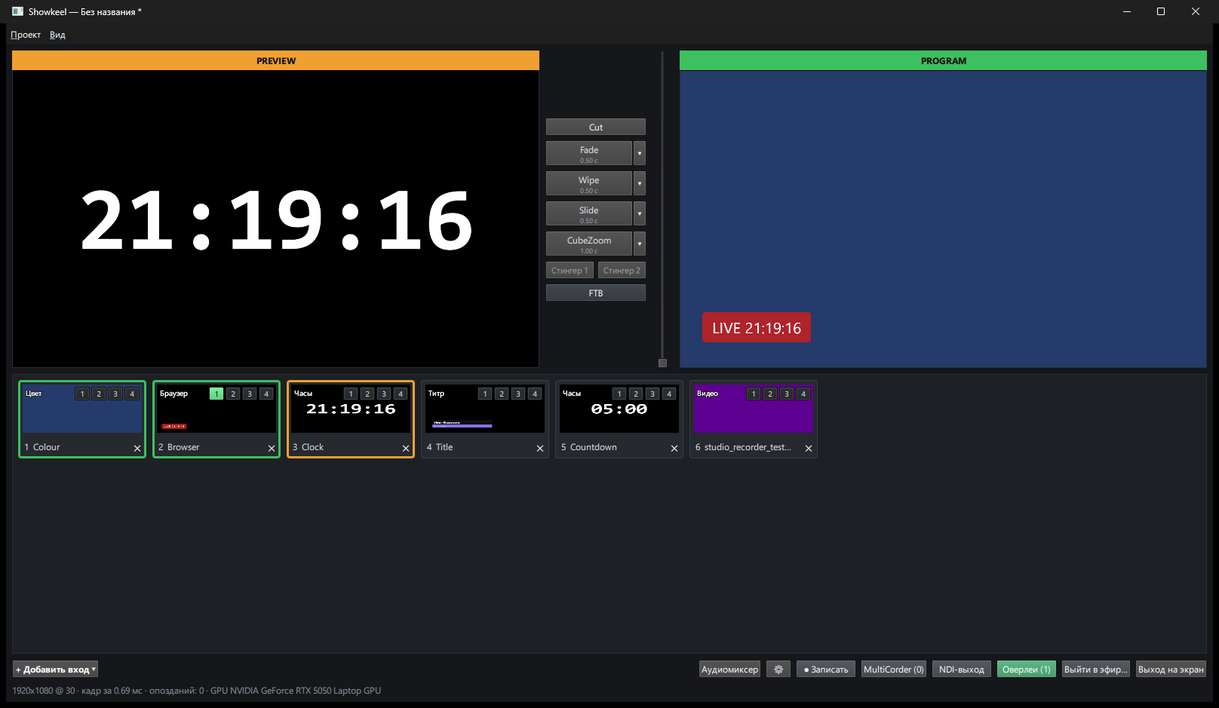
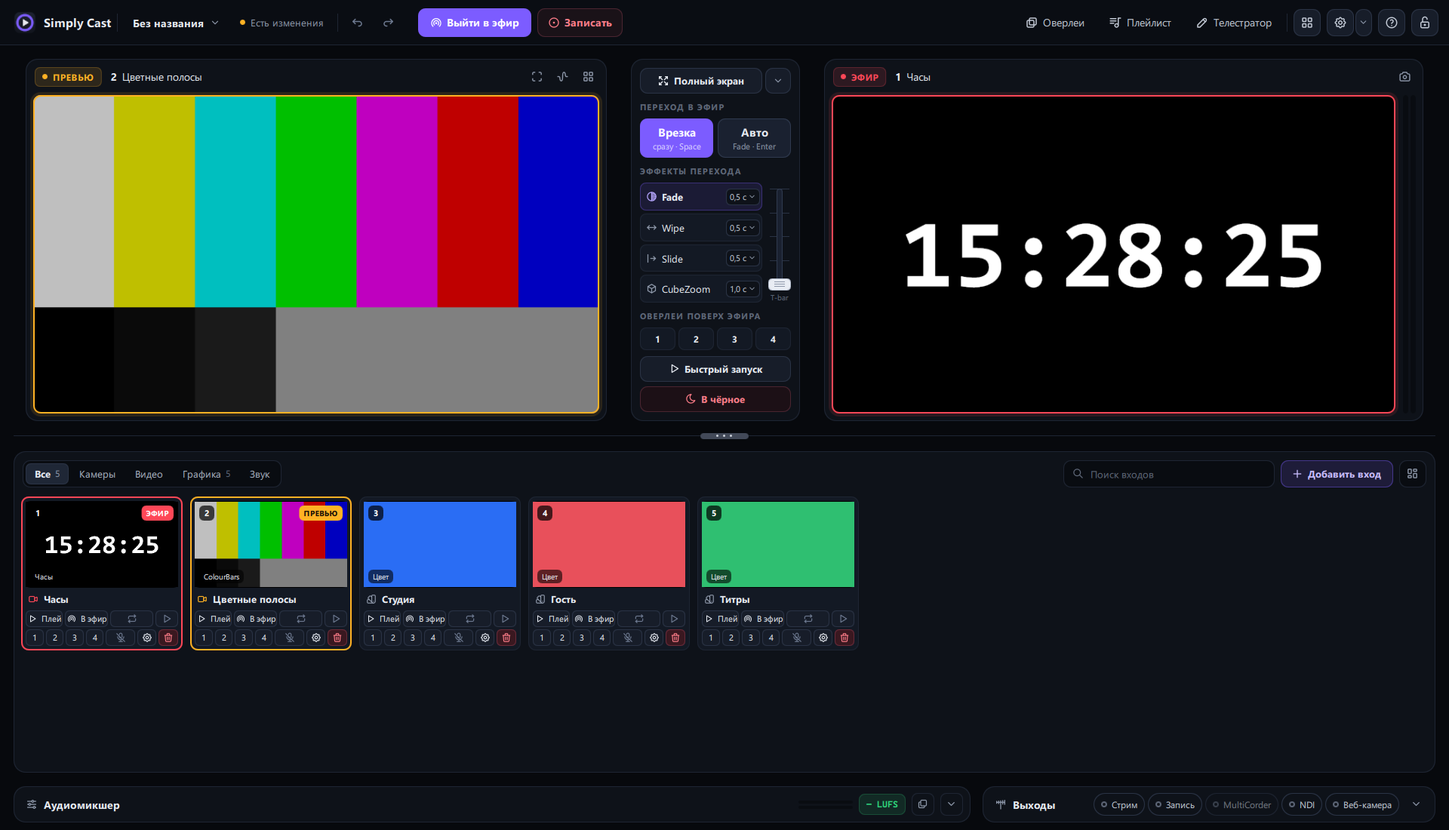
Новый дизайн сайта и свежий скриншот

diff --git a/site/index.html b/site/index.html
@@ -3,121 +3,184 @@
 <head>
 <meta charset="utf-8">
 <meta name="viewport" content="width=device-width, initial-scale=1">
-<title>Simply Cast — живой эфир с одного компьютера</title>
-<meta name="description" content="Бесплатный видеомикшер для Windows: камеры, экраны, NDI и веб-графика в Program, в запись и в стрим одновременно. Без ключей и активации.">
+<title>Simply Cast — видеомикшер для Windows</title>
+<meta name="description" content="Бесплатный видеомикшер для Windows: камеры, экраны, NDI и веб-графика в эфир, запись и стрим одновременно. Без ключей и активации. Пульт для Android в комплекте.">
 <style>
-  /* colours: replica/design/tokens.json (checked with contrast.py, 0 AA failures) */
-  :root { --bg:#15171a; --surface:#23262b; --border:#3a3e45; --text:#e4e6ea; --muted:#a3a9b2;
-          --accent:#a493ff; --accent-strong:#6c4fe0; --on-accent:#ffffff; }
-  * { box-sizing: border-box; }
-  body { margin:0; background:var(--bg); color:var(--text); font:16px/1.55 "Segoe UI", system-ui, sans-serif; }
-  .wrap { max-width:1080px; margin:0 auto; padding:0 16px; }
-  header.top { display:flex; align-items:center; justify-content:space-between; padding:20px 0; }
-  .logo { font-weight:700; font-size:20px; letter-spacing:.2px; }
-  .logo span { display:inline-block; width:10px; height:22px; margin-right:8px; vertical-align:-4px;
-               background:var(--accent-strong); clip-path:polygon(0 0,100% 0,50% 100%); }
-  h1 { font-size:clamp(30px,5vw,48px); line-height:1.12; margin:48px 0 16px; }
-  .lead { font-size:clamp(17px,2.2vw,20px); color:var(--muted); max-width:720px; margin:0 0 28px; }
-  .btn { display:inline-block; background:var(--accent-strong); color:var(--on-accent); text-decoration:none;
-         font-weight:600; padding:14px 22px; border-radius:10px; }
+  :root {
+    --bg:#0a0d16; --panel:#121726; --panel2:#171d30; --line:#262e47;
+    --text:#eef1f8; --muted:#9aa4bf; --accent:#8b7bff; --accent2:#6c4fe0;
+    --live:#ff4d5e; --prev:#ffb020; --ok:#34d399;
+  }
+  * { box-sizing:border-box; }
+  html { scroll-behavior:smooth; }
+  body { margin:0; background:var(--bg); color:var(--text); font:16px/1.6 "Segoe UI",system-ui,sans-serif;
+         background-image:radial-gradient(900px 420px at 50% -120px, rgba(108,79,224,.28), transparent 70%); }
+  a { color:inherit; }
+  .wrap { max-width:1160px; margin:0 auto; padding:0 20px; }
+
+  nav { display:flex; align-items:center; justify-content:space-between; padding:18px 0; }
+  .logo { display:flex; align-items:center; gap:10px; font-weight:700; font-size:19px; text-decoration:none; }
+  .logo i { width:30px; height:30px; border-radius:50%; background:linear-gradient(135deg,var(--accent),var(--accent2));
+            display:grid; place-items:center; }
+  .logo i::after { content:""; border-left:9px solid #fff; border-top:6px solid transparent; border-bottom:6px solid transparent; margin-left:3px; }
+  nav .links { display:flex; gap:22px; align-items:center; font-size:15px; color:var(--muted); }
+  nav .links a { text-decoration:none; }
+  nav .links a:hover { color:var(--text); }
+
+  .btn { display:inline-flex; align-items:center; gap:10px; padding:14px 24px; border-radius:12px; font-weight:600;
+         text-decoration:none; border:1px solid var(--line); background:var(--panel2); transition:.15s; }
+  .btn:hover { border-color:var(--accent); }
+  .btn.primary { background:linear-gradient(135deg,var(--accent),var(--accent2)); border-color:transparent; color:#fff;
+                 box-shadow:0 8px 30px rgba(108,79,224,.4); }
+  .btn.primary:hover { filter:brightness(1.1); }
   .btn:focus-visible { outline:3px solid var(--accent); outline-offset:3px; }
-  .note { color:var(--muted); font-size:14px; margin-top:10px; }
-  .shot { margin:36px 0 8px; border:1px solid var(--border); border-radius:12px; overflow:hidden; }
-  .shot img { display:block; width:100%; height:auto; }
-  section { padding:44px 0; border-top:1px solid var(--border); }
-  h2 { font-size:clamp(24px,3vw,30px); margin:0 0 20px; }
-  .grid { display:grid; grid-template-columns:repeat(auto-fit,minmax(250px,1fr)); gap:16px; }
-  .card { background:var(--surface); border:1px solid var(--border); border-radius:12px; padding:18px; }
-  .card h3 { margin:0 0 6px; font-size:17px; }
-  .card p, li { color:var(--muted); margin:0; }
-  ol, ul { padding-left:20px; margin:0; } li { margin:6px 0; }
-  .num { color:var(--accent); font-weight:700; }
-  table { border-collapse:collapse; width:100%; max-width:560px; }
-  td, th { text-align:left; padding:10px 12px; border-bottom:1px solid var(--border); }
-  th { color:var(--muted); font-weight:600; }
-  dt { font-weight:600; margin-top:16px; } dd { margin:4px 0 0; color:var(--muted); }
-  a { color:var(--accent); }
-  footer { padding:32px 0 48px; color:var(--muted); font-size:14px; border-top:1px solid var(--border); }
+
+  .hero { text-align:center; padding:56px 0 32px; }
+  .badges { display:flex; gap:8px; justify-content:center; margin-bottom:20px; }
+  .pill { font-size:12px; font-weight:700; letter-spacing:.8px; padding:5px 11px; border-radius:99px; border:1px solid; }
+  .pill.live { color:var(--live); border-color:rgba(255,77,94,.5); background:rgba(255,77,94,.1); }
+  .pill.prev { color:var(--prev); border-color:rgba(255,176,32,.5); background:rgba(255,176,32,.1); }
+  h1 { font-size:clamp(34px,6vw,64px); line-height:1.07; margin:0 0 18px; letter-spacing:-.02em; }
+  h1 em { font-style:normal; background:linear-gradient(90deg,var(--accent),#c9c0ff); -webkit-background-clip:text; background-clip:text; color:transparent; }
+  .lead { color:var(--muted); font-size:clamp(17px,2.2vw,21px); max-width:700px; margin:0 auto 30px; }
+  .cta { display:flex; flex-wrap:wrap; gap:12px; justify-content:center; }
+  .meta { color:var(--muted); font-size:14px; margin-top:14px; }
+
+  .shot { margin:44px auto 0; border-radius:16px; padding:8px; background:var(--panel); border:1px solid var(--line);
+          box-shadow:0 40px 90px rgba(0,0,0,.6), 0 0 120px rgba(108,79,224,.18); }
+  .shot img { display:block; width:100%; height:auto; border-radius:10px; }
+
+  section { padding:84px 0 0; }
+  h2 { font-size:clamp(26px,4vw,38px); letter-spacing:-.01em; margin:0 0 10px; }
+  .sub { color:var(--muted); max-width:620px; margin:0 0 34px; }
+
+  .grid { display:grid; grid-template-columns:repeat(auto-fit,minmax(260px,1fr)); gap:14px; }
+  .f { background:var(--panel); border:1px solid var(--line); border-radius:14px; padding:22px; }
+  .f b { display:block; font-size:17px; margin-bottom:6px; }
+  .f p { margin:0; color:var(--muted); font-size:15px; }
+  .f .ic { width:38px; height:38px; border-radius:10px; background:rgba(139,123,255,.14); color:var(--accent);
+           display:grid; place-items:center; font-size:19px; margin-bottom:14px; }
+
+  .steps { display:grid; grid-template-columns:repeat(auto-fit,minmax(260px,1fr)); gap:14px; counter-reset:s; }
+  .step { position:relative; background:var(--panel); border:1px solid var(--line); border-radius:14px; padding:22px 22px 22px 70px; }
+  .step::before { counter-increment:s; content:counter(s); position:absolute; left:20px; top:20px; width:34px; height:34px; border-radius:50%;
+                  background:var(--accent2); display:grid; place-items:center; font-weight:700; }
+  .step b { display:block; margin-bottom:4px; }
+  .step p { margin:0; color:var(--muted); font-size:15px; }
+
+  .dl { display:grid; grid-template-columns:repeat(auto-fit,minmax(300px,1fr)); gap:14px; }
+  .card { background:var(--panel); border:1px solid var(--line); border-radius:16px; padding:26px; display:flex; flex-direction:column; gap:14px; }
+  .card.main { border-color:rgba(139,123,255,.55); background:linear-gradient(180deg,rgba(108,79,224,.16),var(--panel)); }
+  .card h3 { margin:0; font-size:20px; }
+  .card p { margin:0; color:var(--muted); font-size:15px; flex:1; }
+  .card .btn { justify-content:center; }
+  .tag { font-size:13px; color:var(--muted); }
+
+  details { background:var(--panel); border:1px solid var(--line); border-radius:12px; padding:16px 20px; margin-bottom:10px; }
+  summary { cursor:pointer; font-weight:600; }
+  details p { color:var(--muted); margin:10px 0 0; }
+
+  footer { margin-top:90px; padding:28px 0 44px; border-top:1px solid var(--line); color:var(--muted); font-size:14px; }
+  footer .wrap { display:flex; flex-wrap:wrap; gap:8px 24px; justify-content:space-between; }
+  @media (max-width:640px){ nav .links a:not(.btn){ display:none; } .hero{padding-top:36px;} }
 </style>
 </head>
 <body>
 <div class="wrap">
-  <header class="top"><div class="logo"><span aria-hidden="true"></span>Simply Cast</div>
-    <a href="#download">Скачать</a></header>
+  <nav>
+    <a class="logo" href="#"><i aria-hidden="true"></i>Simply Cast</a>
+    <div class="links"><a href="#features">Возможности</a><a href="#remote">Пульт</a><a href="#faq">Вопросы</a>
+      <a class="btn primary" style="padding:9px 18px" href="#download">Скачать</a></div>
+  </nav>
 
-  <h1>Живой эфир с одного компьютера. Бесплатно.</h1>
-  <p class="lead">Камеры, экраны, NDI и веб-графика — в Program, в запись и в стрим одновременно. Без ключей и активации.</p>
-  <a class="btn dl-win" href="SimplyCast-Setup-0.1.0.exe">Скачать для Windows</a> <a class="btn dl-apk" href="#download" style="background:var(--surface);border:1px solid var(--border)">Пульт для Android (APK)</a> <a class="dl-all" href="#download">Все релизы</a>
-  <p class="note">Версия 0.1.0 · 24 МБ · Windows 10 (2004) и 11, 64 бит</p>
-  <div class="shot"><img src="screenshot.png" width="1616" height="939" alt="Главное окно Simply Cast: Preview с часами, Program с графикой LIVE, полоса входов и микшер"></div>
+  <header class="hero">
+    <div class="badges"><span class="pill prev">ПРЕВЬЮ</span><span class="pill live">ЭФИР</span></div>
+    <h1>Видеомикшер,<br><em>который не просит денег</em></h1>
+    <p class="lead">Камеры, экраны, NDI и веб-графика — в эфир, в запись и в стрим одновременно. Без ключей, активации и ограничений по разрешению.</p>
+    <div class="cta">
+      <a class="btn primary dl-win" href="SimplyCast-Setup-0.1.0.exe">⬇ Скачать для Windows</a>
+      <a class="btn dl-apk" href="#download">📱 Пульт для Android</a>
+    </div>
+    <p class="meta">Версия 0.1.0 · 27 МБ · Windows 10 (2004) и 11, 64 бит</p>
+    <div class="shot"><img src="screenshot.png" width="1920" height="1100" alt="Главное окно Simply Cast: превью и эфир, переходы, полоса входов, аудиомикшер и выходы"></div>
+  </header>
 
-  <section>
-    <h2>Знакомо?</h2>
+  <section id="features">
+    <h2>Всё для живого эфира</h2>
+    <p class="sub">Знакомый рабочий процесс: собрали кадр в превью, перевели в эфир — переходом, T-bar или клавишей.</p>
     <div class="grid">
-      <div class="card"><h3>Нужное — в старшем тарифе</h3><p>Разрешение или функция открываются только в дорогой лицензии, а ключ может истечь или оказаться у чужих.</p></div>
-      <div class="card"><h3>Падение посреди эфира</h3><p>Одна зависшая камера тянет за собой всю программу — и эфир вместе с ней.</p></div>
+      <div class="f"><div class="ic">▶</div><b>Эфир и превью</b><p>Врезка и авто-переход, Fade, Wipe, Slide, CubeZoom, T-bar и «в чёрное».</p></div>
+      <div class="f"><div class="ic">◉</div><b>Любые источники</b><p>Камеры, экран, видео и картинки, NDI, веб-страницы, титры, часы и цвет.</p></div>
+      <div class="f"><div class="ic">⇄</div><b>Стрим и запись</b><p>Файл, RTMP(S) и SRT — сразу в несколько направлений. Кодирование на NVIDIA или AMD.</p></div>
+      <div class="f"><div class="ic">♪</div><b>Аудиомикшер</b><p>Шины, solo, AFV, метры и громкость в LUFS — звук синхронен с видео по построению.</p></div>
+      <div class="f"><div class="ic">⚑</div><b>Не падает в эфире</b><p>Камера без сигнала отпускается, стрим переподключается, проект возвращается после сбоя.</p></div>
+      <div class="f"><div class="ic">🔒</div><b>Ключи в безопасности</b><p>Ключи стримов лежат в диспетчере учётных данных Windows, а не в файле проекта.</p></div>
     </div>
   </section>
 
   <section>
-    <h2>Как это работает</h2>
-    <ol>
-      <li><span class="num">1.</span> Добавьте входы: камеры, экраны, видео, NDI, веб-страницы, титры.</li>
-      <li><span class="num">2.</span> Соберите кадр в Preview и переведите в Program — переходом, T-bar или клавишей.</li>
-      <li><span class="num">3.</span> Запишите и выйдите в эфир: файл, RTMP(S), SRT — сразу несколько направлений.</li>
-    </ol>
-  </section>
-
-  <section>
-    <h2>Почему спокойнее</h2>
-    <div class="grid">
-      <div class="card"><h3>Бесплатно целиком</h3><p>Нет уровней, ключей и активации. Ничего не истекает.</p></div>
-      <div class="card"><h3>Сбой не тянет за собой всё</h3><p>Камера без сигнала отпускается и не держит программу.</p></div>
-      <div class="card"><h3>Шоу возвращается</h3><p>Автосохранение и возврат после сбоя; несколько копий не мешают друг другу.</p></div>
-      <div class="card"><h3>Эфир держится</h3><p>Стрим переподключается сам, запись делится на части — каждая открывается отдельно.</p></div>
-      <div class="card"><h3>Ключи не на виду</h3><p>Ключи стримов хранятся в диспетчере учётных данных Windows, не в файле проекта.</p></div>
-      <div class="card"><h3>Для парка машин</h3><p>Тихая установка без окон лицензии: <code>/VERYSILENT</code>.</p></div>
+    <h2>Три шага до эфира</h2>
+    <p class="sub">&nbsp;</p>
+    <div class="steps">
+      <div class="step"><b>Добавьте входы</b><p>Камера, экран, видеофайл или мастер первого шоу — плитки появятся сами.</p></div>
+      <div class="step"><b>Соберите кадр</b><p>Выберите вход в превью и переведите в эфир переходом или клавишей Space.</p></div>
+      <div class="step"><b>Выходите в эфир</b><p>Нажмите «Выйти в эфир» или «Записать» — можно и то и другое.</p></div>
     </div>
-    <p class="note">В работе: здоровье эфира на экране и в API, громкость в LUFS, защита Program от случайных правок.</p>
   </section>
 
-  <section>
-    <h2>Цена</h2>
-    <table>
-      <tr><th>Цена</th><td>Бесплатно, для любого использования</td></tr>
-      <tr><th>Ключи и активация</th><td>Нет</td></tr>
-      <tr><th>Ограничения по разрешению и входам</th><td>Нет</td></tr>
-    </table>
-  </section>
-
-  <section>
-    <h2>Вопросы</h2>
-    <dl>
-      <dt>Что нужно для записи и стрима?</dt><dd>Любой компьютер с Windows 10/11. Simply Cast кодирует видеокартой NVIDIA или AMD, а без них — встроенным кодером Windows (Intel Quick Sync или программным). Для AV1 нужна NVIDIA или AMD.</dd>
-      <dt>Нужен ли NDI?</dt><dd>Нет: NDI-движок идут в комплекте с программой — входы и выход NDI работают сразу.</dd>
-      <dt>Работает ли с пультами?</dt><dd>HTTP и TCP API, веб-пульт для телефона; для пультов, рассчитанных на распространённый формат XML, — «Проект → Совместимый XML API».</dd>
-      <dt>Отправляет ли Simply Cast данные?</dt><dd>Нет. Он ищет NDI-источники в локальной сети и работает с тем, что вы настроили.</dd>
-      <dt>Есть ли версия для Mac?</dt><dd>Нет.</dd>
-    </dl>
+  <section id="remote">
+    <h2>Управляйте с телефона и планшета</h2>
+    <p class="sub">Пульт для Android подключается к компьютеру по Wi-Fi: живые мониторы, переключение входов и переходы. Камеру телефона можно использовать как источник.</p>
+    <div class="grid">
+      <div class="f"><b>Планшетная раскладка</b><p>Мониторы 16:9 без чёрных полос и входы сеткой — как на компьютере.</p></div>
+      <div class="f"><b>Сам находит ПК</b><p>Включите «Управление с телефона» в настройках, отсканируйте QR — и готово.</p></div>
+      <div class="f"><b>Камера телефона</b><p>Телефон становится ещё одним входом с минимальной задержкой.</p></div>
+    </div>
   </section>
 
   <section id="download">
-    <h2>Соберите первый эфир за несколько минут</h2>
-    <a class="btn dl-win" href="SimplyCast-Setup-0.1.0.exe">Скачать для Windows</a> <a class="btn dl-apk" href="#download" style="background:var(--surface);border:1px solid var(--border)">Пульт для Android (APK)</a> <a class="dl-all" href="#download">Все релизы</a>
-    <p class="note">Simply Cast использует Qt и FFmpeg по LGPL; лицензии — в папке licenses программы. NDI® — зарегистрированный товарный знак Vizrt NDI AB.</p>
+    <h2>Скачать</h2>
+    <p class="sub">Бесплатно, для любого использования. Никакой регистрации.</p>
+    <div class="dl">
+      <div class="card main"><h3>Установщик для Windows</h3><p>Обычная установка с ярлыками и удалением. Для парка машин — тихая установка с ключом <code>/VERYSILENT</code>.</p>
+        <a class="btn primary dl-win" href="SimplyCast-Setup-0.1.0.exe">⬇ SimplyCast-Setup-0.1.0.exe</a><span class="tag">27 МБ · Windows 10/11 x64</span></div>
+      <div class="card"><h3>Один файл, без установки</h3><p>Переносная сборка: запускается из любой папки, ничего не прописывает в системе.</p>
+        <a class="btn dl-single" href="#download">⬇ SimplyCast-Single-0.1.0.exe</a><span class="tag">41 МБ · Windows 10/11 x64</span></div>
+      <div class="card"><h3>Пульт для Android</h3><p>Приложение для управления эфиром с телефона или планшета. Разрешите установку из неизвестных источников.</p>
+        <a class="btn dl-apk" href="#download">⬇ SimplyCast-Remote.apk</a><span class="tag">1,5 МБ · Android</span></div>
+    </div>
+    <p class="meta"><a class="dl-all" href="#download">Все версии и история изменений →</a></p>
   </section>
 
-  <footer>Simply Cast 0.1.0 · © <a href="https://petrovich.party/">Petrovich.party</a> · <a href="privacy.html">Конфиденциальность</a></footer>
+  <section id="faq">
+    <h2>Вопросы</h2>
+    <p class="sub">&nbsp;</p>
+    <details><summary>Что нужно для записи и стрима?</summary><p>Любой компьютер с Windows 10/11. Simply Cast кодирует видеокартой NVIDIA или AMD, а без них — встроенным кодером Windows. Для AV1 нужна NVIDIA или AMD.</p></details>
+    <details><summary>Нужен ли NDI отдельно?</summary><p>Нет, движок NDI идёт в комплекте: входы и выход NDI работают сразу.</p></details>
+    <details><summary>Работает ли с пультами и по API?</summary><p>Есть HTTP и TCP API, веб-пульт для телефона и приложение для Android. Для пультов, рассчитанных на распространённый XML-формат, — «Проект → Совместимый XML API».</p></details>
+    <details><summary>Отправляет ли Simply Cast данные?</summary><p>Нет. Он ищет NDI-источники в локальной сети и работает только с тем, что вы настроили.</p></details>
+    <details><summary>Есть ли версия для Mac?</summary><p>Пока нет.</p></details>
+  </section>
 </div>
+
+<footer>
+  <div class="wrap">
+    <span>Simply Cast 0.1.0 · © <a href="https://petrovich.party/">Petrovich.party</a> · <a href="privacy.html">Конфиденциальность</a></span>
+    <span>Qt и FFmpeg по LGPL, лицензии — в папке licenses. NDI® — товарный знак Vizrt NDI AB.</span>
+  </div>
+</footer>
+
 <script>
   // Страница на GitHub Pages: owner.github.io/repo -> файлы последнего релиза репозитория
   (function () {
     var m = location.hostname.match(/^(.+)\.github\.io$/), repo = location.pathname.split('/')[1];
     if (!m || !repo) return;
-    var base = 'https://github.com/' + m[1] + '/' + repo + '/releases/latest/download/';
-    document.querySelectorAll('.dl-win').forEach(function (a) { a.href = base + 'SimplyCast-Setup-0.1.0.exe'; });
-    document.querySelectorAll('.dl-apk').forEach(function (a) { a.href = base + 'SimplyCast-Remote.apk'; });
-    document.querySelectorAll('.dl-all').forEach(function (a) { a.href = 'https://github.com/' + m[1] + '/' + repo + '/releases'; });
+    var root = 'https://github.com/' + m[1] + '/' + repo, base = root + '/releases/latest/download/';
+    function set(sel, url) { document.querySelectorAll(sel).forEach(function (a) { a.href = url; }); }
+    set('.dl-win', base + 'SimplyCast-Setup-0.1.0.exe');
+    set('.dl-single', base + 'SimplyCast-Single-0.1.0.exe');
+    set('.dl-apk', base + 'SimplyCast-Remote.apk');
+    set('.dl-all', root + '/releases');
   })();
 </script>
 </body>
